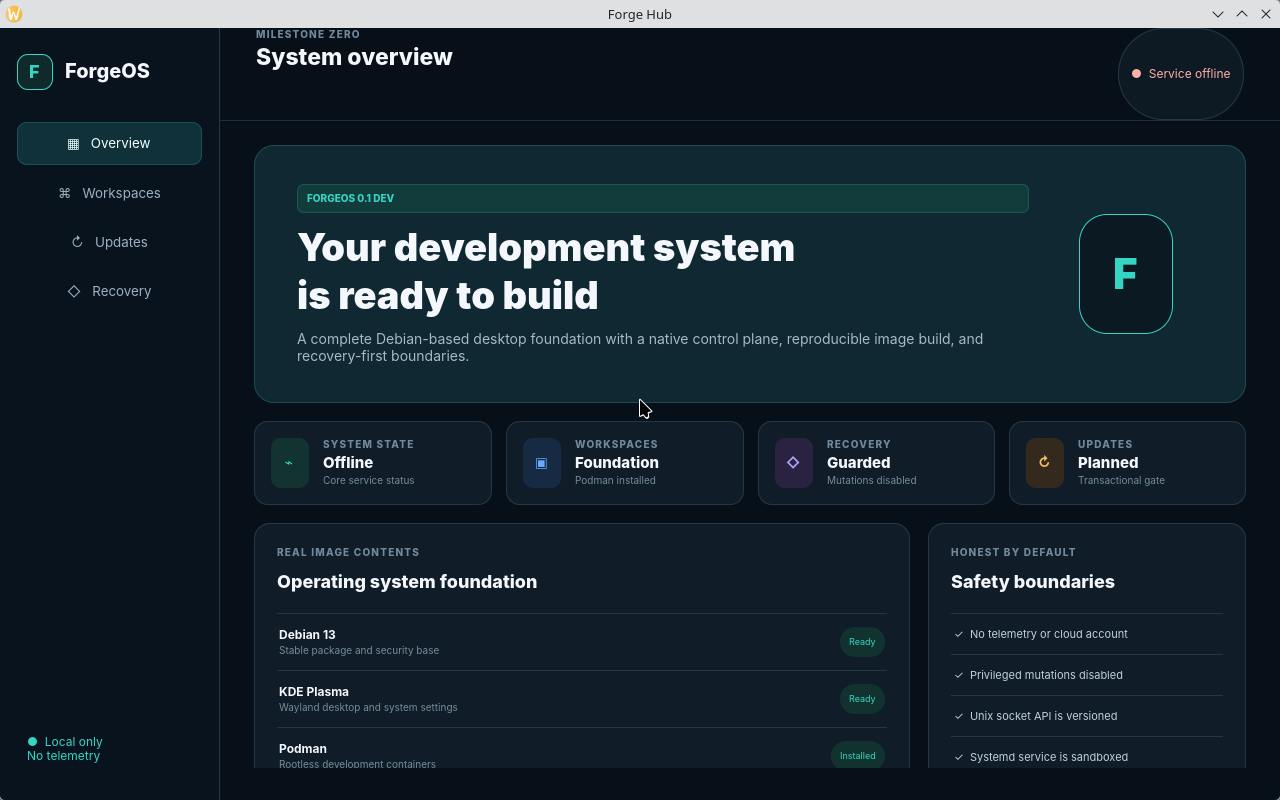
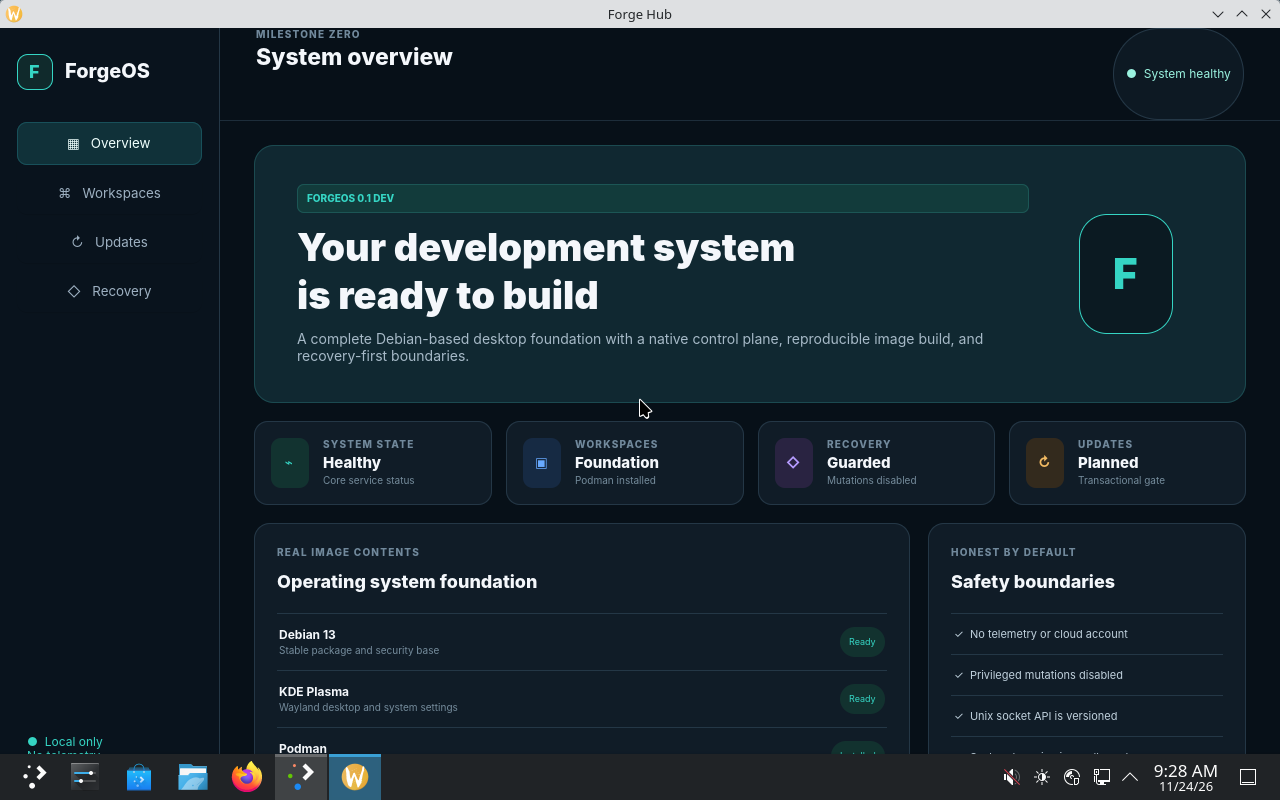
Refresh screenshot from healthy native boot

Changed region(s): [[0.0312, 0.9375, 1.0, 1.0], [0.875, 0.0625, 0.9688, 0.0938], [0.25, 0.5625, 0.3125, 0.5938]]

diff --git a/README.md b/README.md
@@ -59,7 +59,7 @@ The ISO will be written to `.build/forgeos-amd64.hybrid.iso`. See [docs/BUILDING
 
 ![ForgeOS native Forge Hub booted from the ISO in QEMU](docs/screenshots/forgeos-native-qemu.png)
 
-This is an implementation screenshot captured automatically after booting the checksum-verified ISO in QEMU. It shows the native GTK 4 Forge Hub shipped in the image, not a webpage or browser mockup. The offline service badge exposed a live-user socket permission issue; the socket policy has since been corrected and the next image build is gated by the same boot-proof workflow.
+This is an implementation screenshot captured automatically after booting the checksum-verified ISO in QEMU. It shows the native GTK 4 Forge Hub shipped in the image, not a webpage or browser mockup. The healthy badge confirms that the live desktop reached the group-restricted `forged` Unix socket and received a valid API response.
 
 ## Interface design reference
 

diff --git a/docs/STATUS.md b/docs/STATUS.md
@@ -14,6 +14,7 @@ Last reviewed: 24 November 2026
 - Configuration validation and CI build/test workflow.
 - ISO workflow with downloadable image and checksum artifacts, El Torito inspection, and a privileged Debian build environment.
 - QEMU boot-proof workflow with checksum verification and timed native framebuffer captures.
+- Latest QEMU proof reached KDE, opened Forge Hub, and reported a healthy response from `forged`.
 - Architecture, security, build, roadmap, blueprint, and screenshot evidence.
 
 ## Demonstrated but not yet integrated
